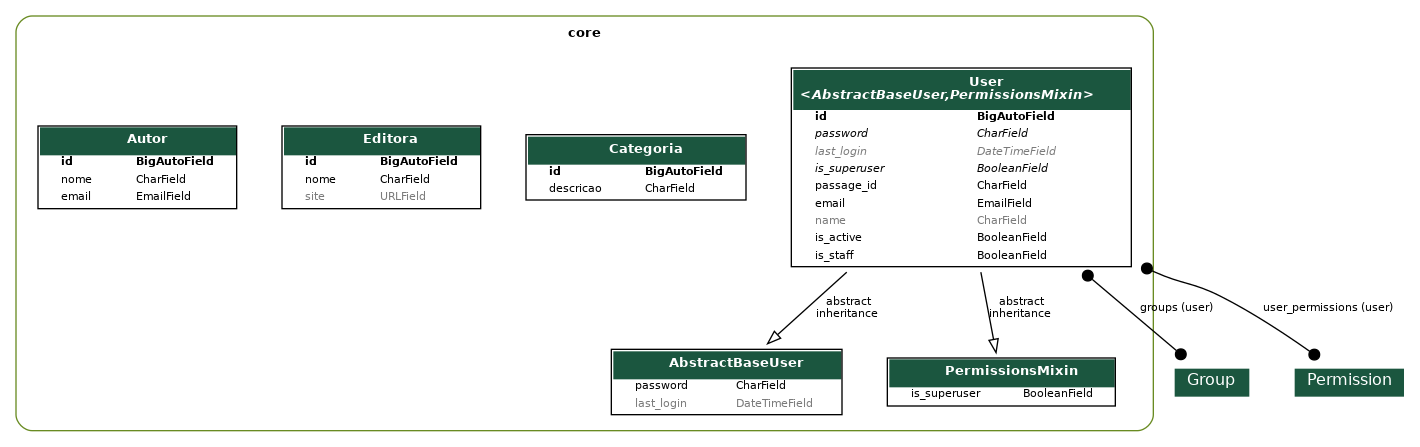
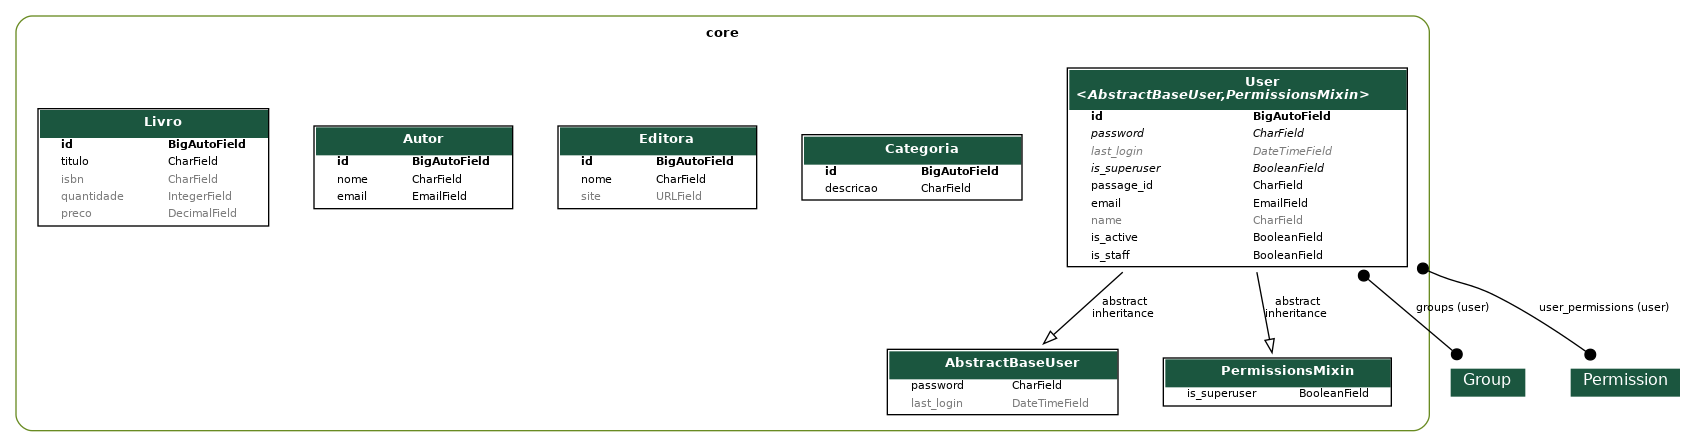
feat: criação da entidade para Livro

diff --git a/core/migrations/0008_livro.py b/core/migrations/0008_livro.py
@@ -1,0 +1,23 @@
+# Generated by Django 5.1.7 on 2025-05-23 12:12
+
+from django.db import migrations, models
+
+
+class Migration(migrations.Migration):
+
+    dependencies = [
+        ('core', '0007_autor'),
+    ]
+
+    operations = [
+        migrations.CreateModel(
+            name='Livro',
+            fields=[
+                ('id', models.BigAutoField(auto_created=True, primary_key=True, serialize=False, verbose_name='ID')),
+                ('titulo', models.CharField(max_length=255)),
+                ('isbn', models.CharField(blank=True, max_length=32, null=True)),
+                ('quantidade', models.IntegerField(blank=True, default=0, null=True)),
+                ('preco', models.DecimalField(blank=True, decimal_places=2, default=0, max_digits=7, null=True)),
+            ],
+        ),
+    ]

diff --git a/app/urls.py b/app/urls.py
@@ -1,5 +1,6 @@
 from django.contrib import admin
 from django.urls import include, path
+from core.views.livro import LivroViewSet
 from drf_spectacular.views import (
     SpectacularAPIView,
     SpectacularRedocView,
@@ -7,12 +8,13 @@ from drf_spectacular.views import (
 )
 from rest_framework.routers import DefaultRouter
 
-from core.views import  CategoriaViewSet, EditoraViewSet, UserViewSet
+from core.views import  CategoriaViewSet, EditoraViewSet,LivroViewSet, UserViewSet
 
 router = DefaultRouter()
 
 router.register(r'categorias', CategoriaViewSet, basename='categorias')
 router.register(r"editoras", EditoraViewSet)
+router.register(r"livros", LivroViewSet)
 router.register(r'usuarios', UserViewSet, basename='usuarios')
 
 urlpatterns = [

diff --git a/core/models/livro.py b/core/models/livro.py
@@ -1,0 +1,10 @@
+from django.db import models
+
+class Livro(models.Model):
+    titulo = models.CharField(max_length=255)
+    isbn = models.CharField(max_length=32, null=True, blank=True)
+    quantidade = models.IntegerField(default=0,  null=True, blank=True)
+    preco = models.DecimalField(max_digits=7, decimal_places=2, default=0, null=True, blank=True)
+
+    def __str__(self):
+        return f"({self.id}) {self.titulo} ({self.quantidade})"

diff --git a/core/views/livro.py b/core/views/livro.py
@@ -1,0 +1,8 @@
+from rest_framework.viewsets import ModelViewSet
+
+from core.models import Livro
+from core.serializers import LivroSerializer
+
+class LivroViewSet(ModelViewSet):
+    queryset = Livro.objects.all()
+    serializer_class = LivroSerializer

diff --git a/core/serializers/livro.py b/core/serializers/livro.py
@@ -1,0 +1,8 @@
+from rest_framework.serializers import ModelSerializer
+
+from core.models import Livro
+
+class LivroSerializer(ModelSerializer):
+    class Meta:
+        model = Livro
+        fields = "__all__"

diff --git a/core/admin.py b/core/admin.py
@@ -55,4 +55,5 @@ admin.site.register(models.User, UserAdmin)
 admin.site.register(models.Categoria)
 admin.site.register(models.Editora)
 admin.site.register(models.Autor)
+admin.site.register(models.Livro)
 

diff --git a/core/serializers/__init__.py b/core/serializers/__init__.py
@@ -1,3 +1,4 @@
 from .user import UserSerializer
 from .categoria import CategoriaSerializer
 from .editora import EditoraSerializer
+from .livro import LivroSerializer

diff --git a/core/views/__init__.py b/core/views/__init__.py
@@ -1,3 +1,4 @@
 from .user import UserViewSet
 from .categoria import CategoriaViewSet
 from .editora import EditoraViewSet
+from .livro import LivroViewSet

diff --git a/core/models/__init__.py b/core/models/__init__.py
@@ -2,3 +2,4 @@ from .user import User
 from .categoria import Categoria
 from .editora import Editora
 from .autor import Autor
+from .livro import Livro
